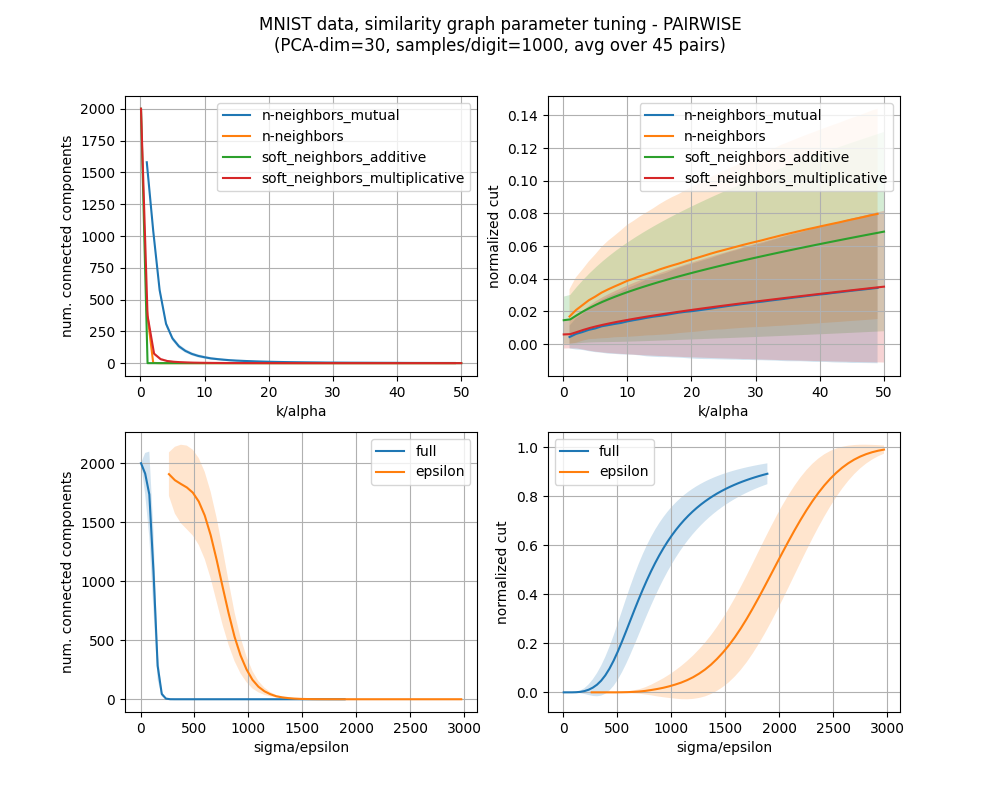
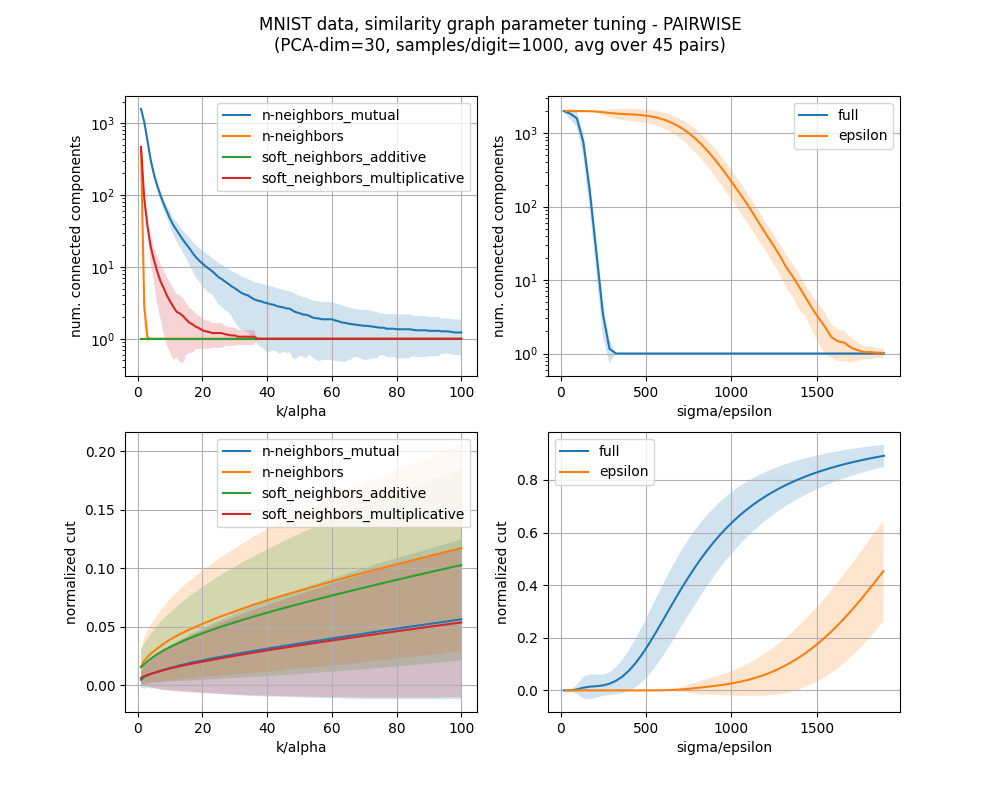
changed n_comp plot to log scale, updated readme

diff --git a/spectral_clustering/README.md b/spectral_clustering/README.md
@@ -211,9 +211,9 @@ $$
 Run `python mnist_simgraphs.py` to test various values of the different similarity graphs' parameters and generate the following plots:
 
 ![datasets](/spectral_clustering/assets/MNIST/simgraph_tuning_pairwise.png)
-The upper two plots show results using the similarity graphs that have a $K$ or $\alpha$ parameter, values between 1 and 50 being tested.  The two similarity graph types with parameters that scale with the data space are plotted on the bottom.
+The left two plots show results using the similarity graphs that have a $K$ or $\alpha$ parameter, values between 1 and 50 being tested.  The two similarity graph types with parameters that scale with the data space are plotted on the right.
 
-The left two figures show how the number of connected components shrinks as the value of each paramter adds edges to the graph as it is increased.  The right two figures show the normalized-cut metric.
+The upper two figures show how the number of connected components (y-axis, log scale) shrinks as higher value of each paramter adds edges to the graph.  The lower two figures show the normalized-cut metric. 
 ### Tuning parameters - Spectral clustering
 
 [ADD EXPERIMENT DESCRIPTION HERE]
